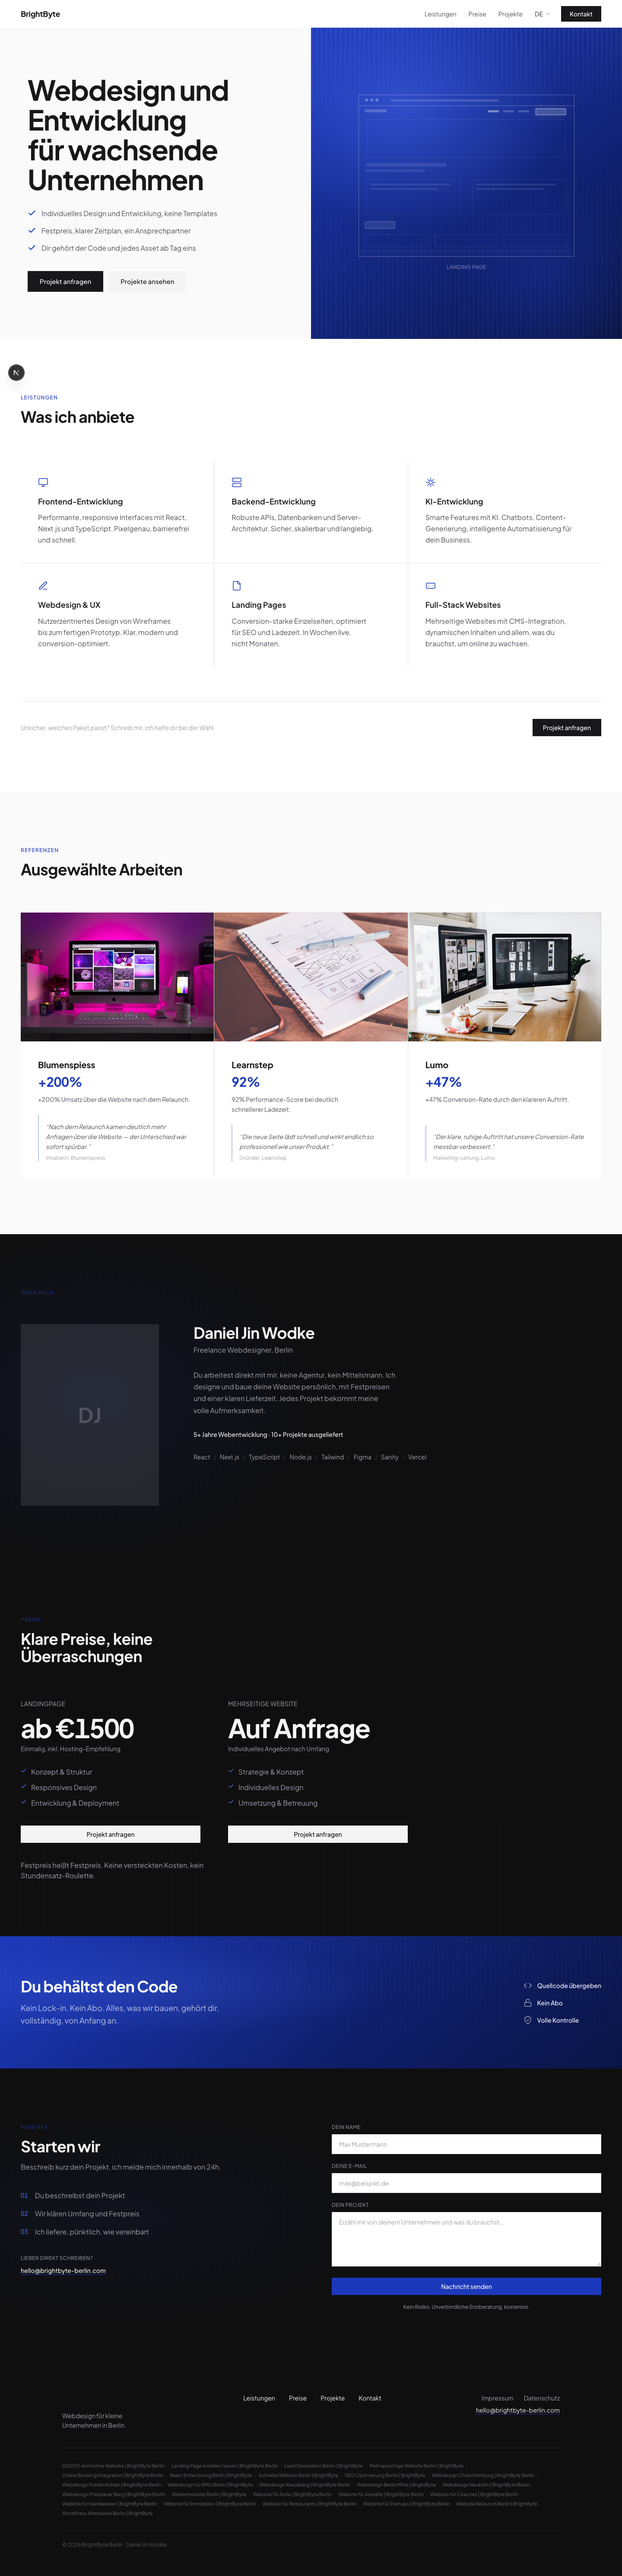
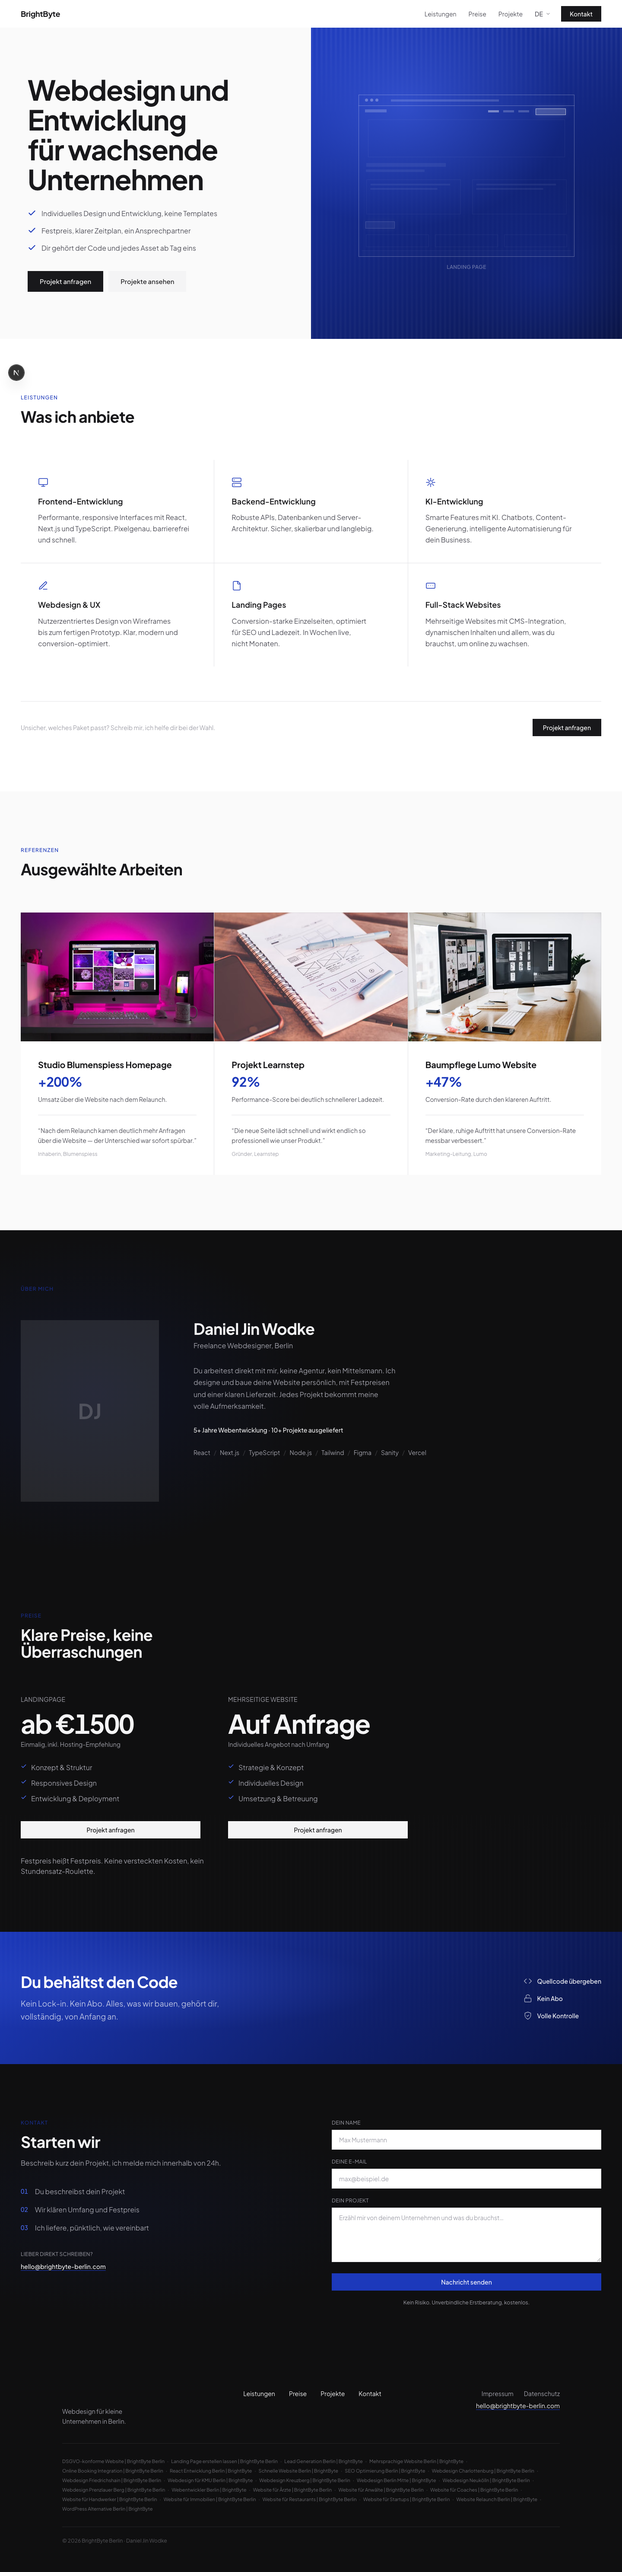
fix(projects): clear titles, no duplicate metrics, cleaner quotes
- Display titles: Studio Blumenspiess Homepage, Projekt Learnstep,
  Baumpflege Lumo Website
- Strip metric from outcome text to avoid showing +200% twice
- Replace border-l blockquote with border-t separator for quotes
- Remove italic from testimonials, cleaner attribution line

diff --git a/components/sections/ProjectsSection.tsx b/components/sections/ProjectsSection.tsx
@@ -36,6 +36,13 @@ const STOCK_PHOTOS: Record<string, string> = {
     'https://images.pexels.com/photos/326503/pexels-photo-326503.jpeg?auto=compress&cs=tinysrgb&w=800&h=534&fit=crop',
 }
 
+/** Display titles: clearer project naming for the portfolio context. */
+const DISPLAY_TITLES: Record<string, string> = {
+  blumenspiess: 'Studio Blumenspiess Homepage',
+  learnstep: 'Projekt Learnstep',
+  lumo: 'Baumpflege Lumo Website',
+}
+
 interface ProjectsSectionProps {
   projects: PROJECTS_QUERY_RESULT
   testimonials: TESTIMONIALS_QUERY_RESULT
@@ -82,6 +89,13 @@ function ProjectsSectionInner({
               project.outcomeNote?.match(/[+\-]?\d[\d.,]*\s?%?/)
             const metric = metricMatch ? metricMatch[0].trim() : null
             const titleLower = (project.title ?? '').toLowerCase()
+
+            // Strip the metric from the outcome note to avoid duplication
+            const outcomeText = metric && project.outcomeNote
+              ? project.outcomeNote.replace(metricMatch![0], '').replace(/^\s*/, '').replace(/^[,.]\s*/, '')
+              : project.outcomeNote
+
+            const displayTitle = DISPLAY_TITLES[titleLower] ?? project.title
 
             // Sanity image takes priority, stock photo as fallback
             const sanityUrl = project.image?.asset
@@ -144,7 +158,7 @@ function ProjectsSectionInner({
                 {/* Content */}
                 <div className="flex flex-col flex-1 p-8 lg:p-10">
                   <h3 className="text-xl font-bold text-primary leading-snug tracking-[-0.01em] mb-2">
-                    {project.title}
+                    {displayTitle}
                   </h3>
 
                   {metric && (
@@ -153,31 +167,27 @@ function ProjectsSectionInner({
                     </p>
                   )}
 
-                  {project.outcomeNote && (
+                  {outcomeText && (
                     <p className="text-sm text-secondary leading-relaxed text-pretty mb-6">
-                      {project.outcomeNote}
+                      {outcomeText}
                     </p>
                   )}
 
-                  {/* Testimonial pushed to bottom of card via mt-auto */}
+                  {/* Testimonial: quote mark + clean layout, no border-l */}
                   {matched?.quote && (
-                    <blockquote className="border-l-2 border-accent/30 pl-4 mt-auto pt-4">
-                      <p className="text-sm text-secondary leading-relaxed text-pretty italic">
+                    <div className="mt-auto pt-6 border-t border-border">
+                      <p className="text-sm text-secondary leading-relaxed text-pretty">
                         &ldquo;{matched.quote}&rdquo;
                       </p>
                       {matched.author && (
-                        <footer className="mt-2">
-                          <p className="text-xs text-muted">
-                            {matched.author}
-                            {matched.company && (
-                              <span>
-                                , {matched.company}
-                              </span>
-                            )}
-                          </p>
-                        </footer>
+                        <p className="text-xs text-muted mt-3">
+                          {matched.author}
+                          {matched.company && (
+                            <span>, {matched.company}</span>
+                          )}
+                        </p>
                       )}
-                    </blockquote>
+                    </div>
                   )}
                 </div>
               </article>
